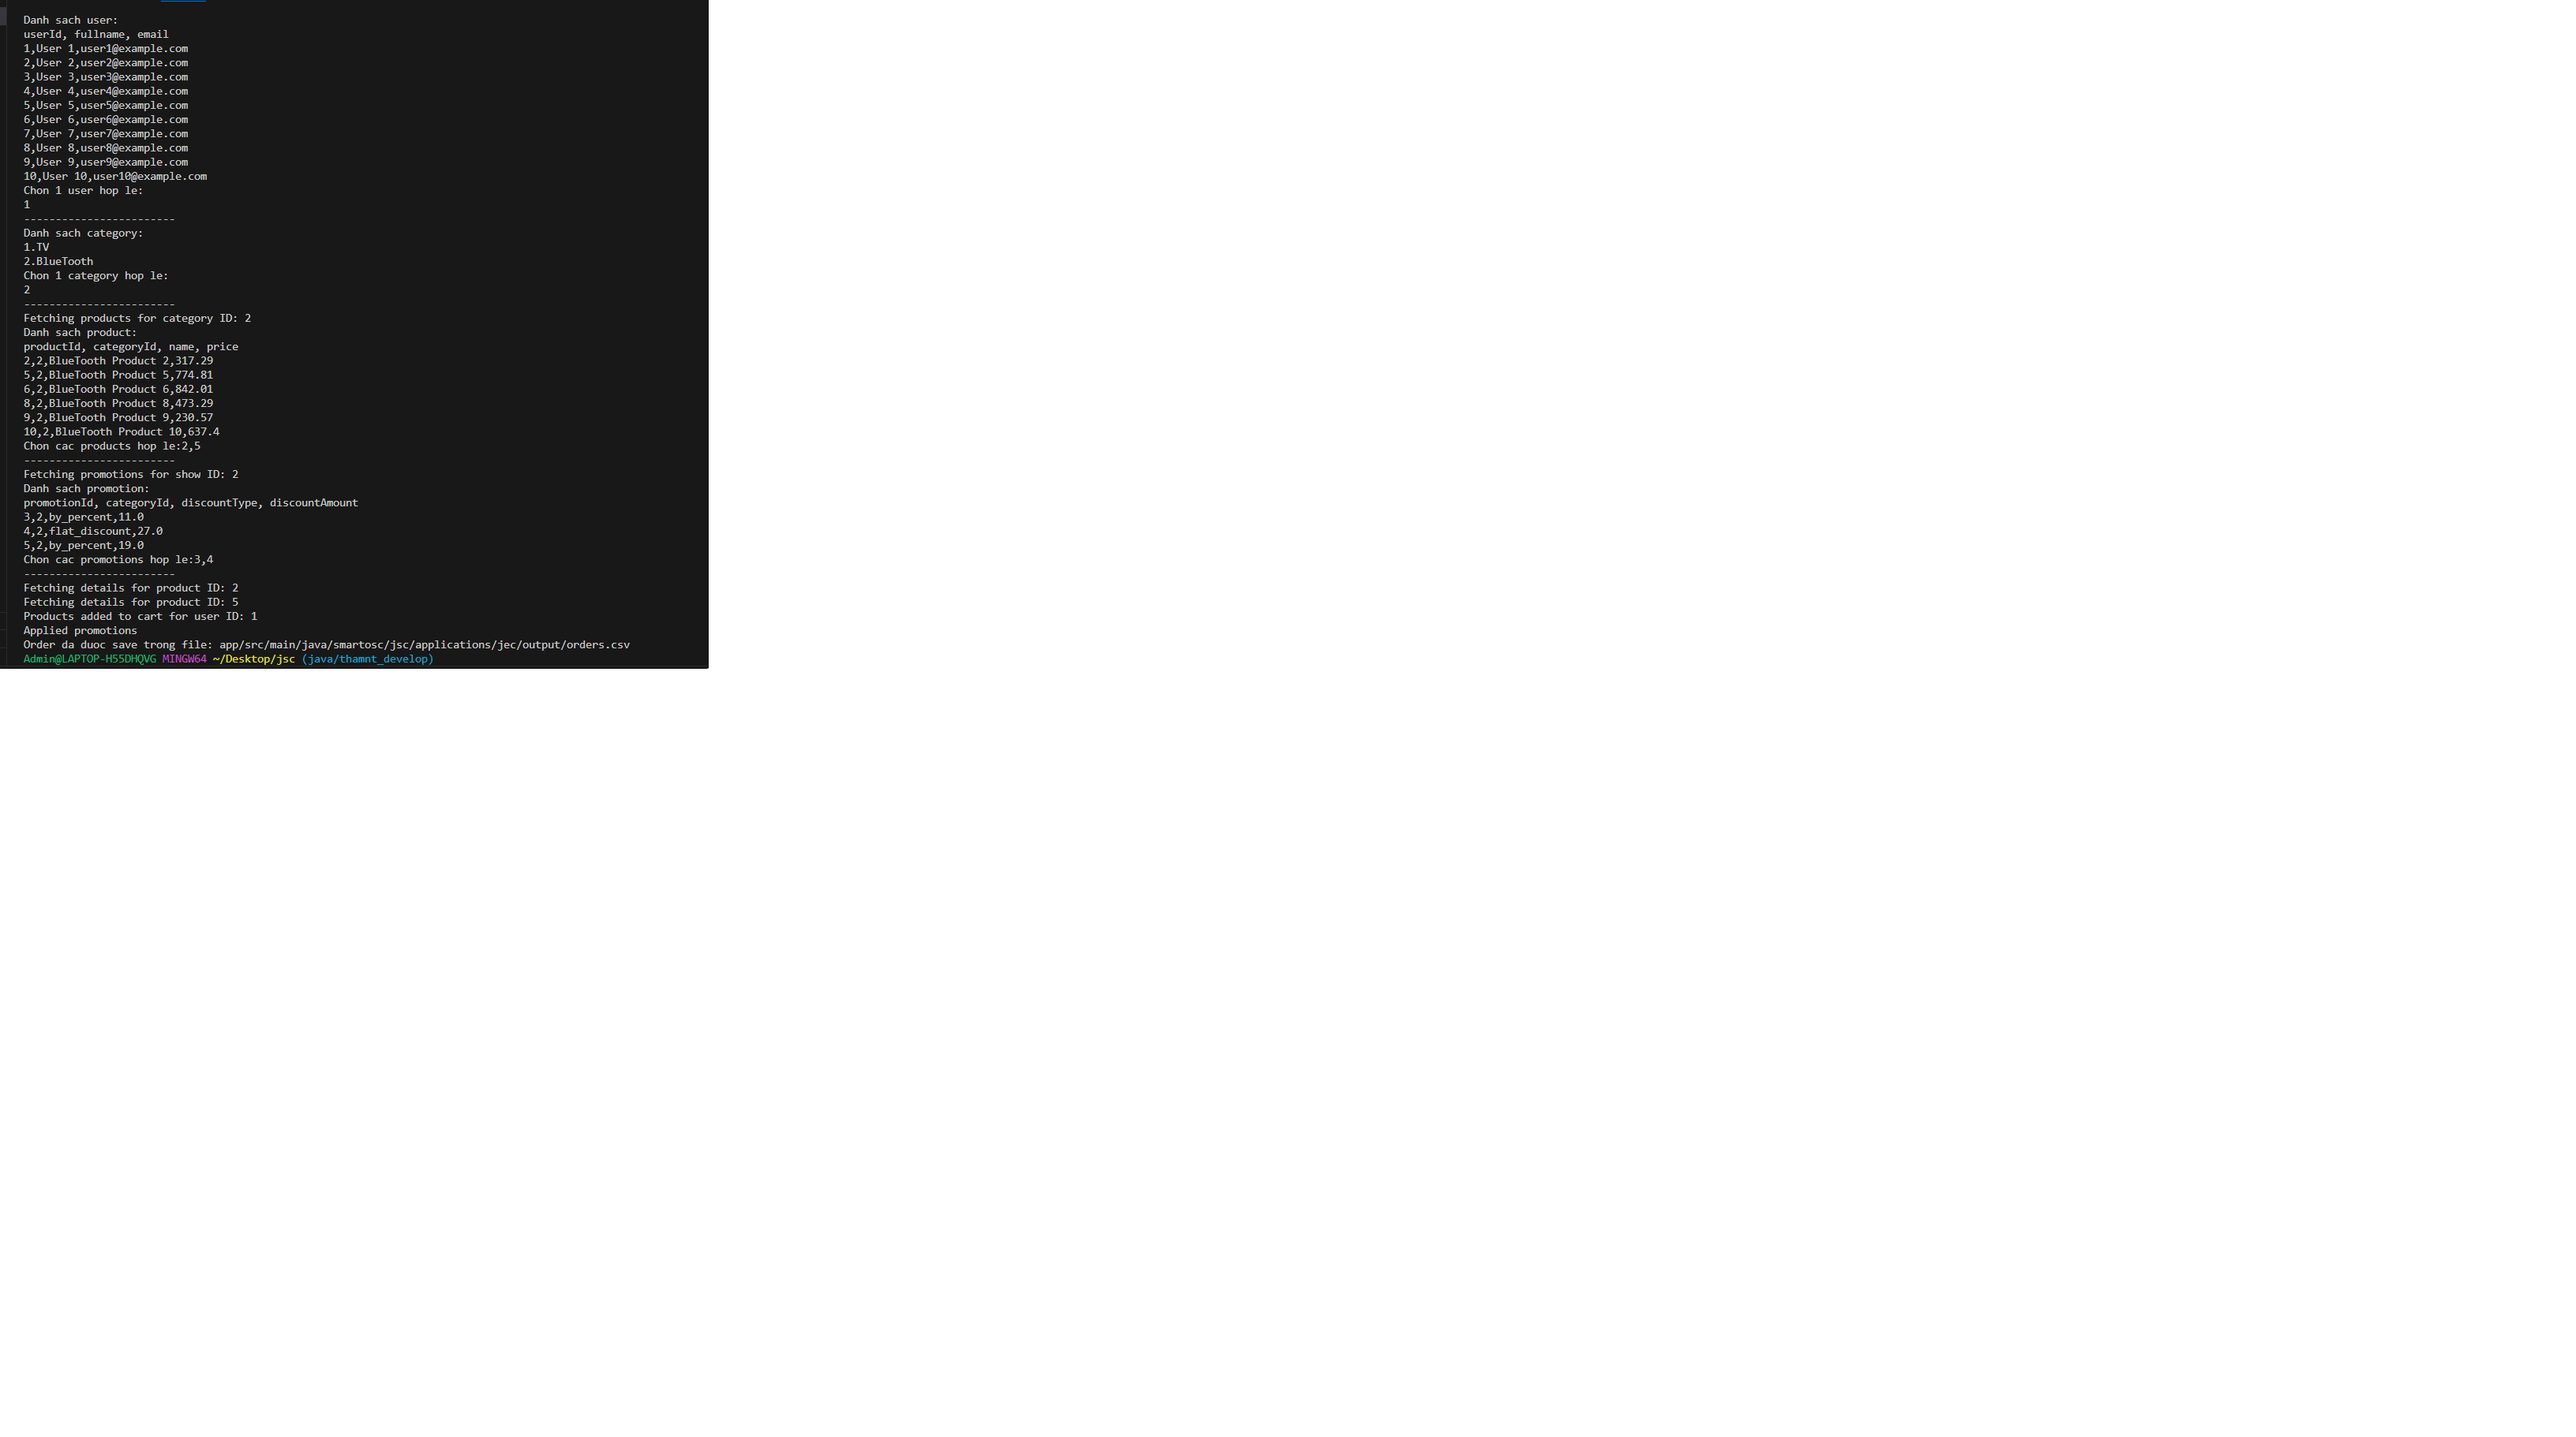
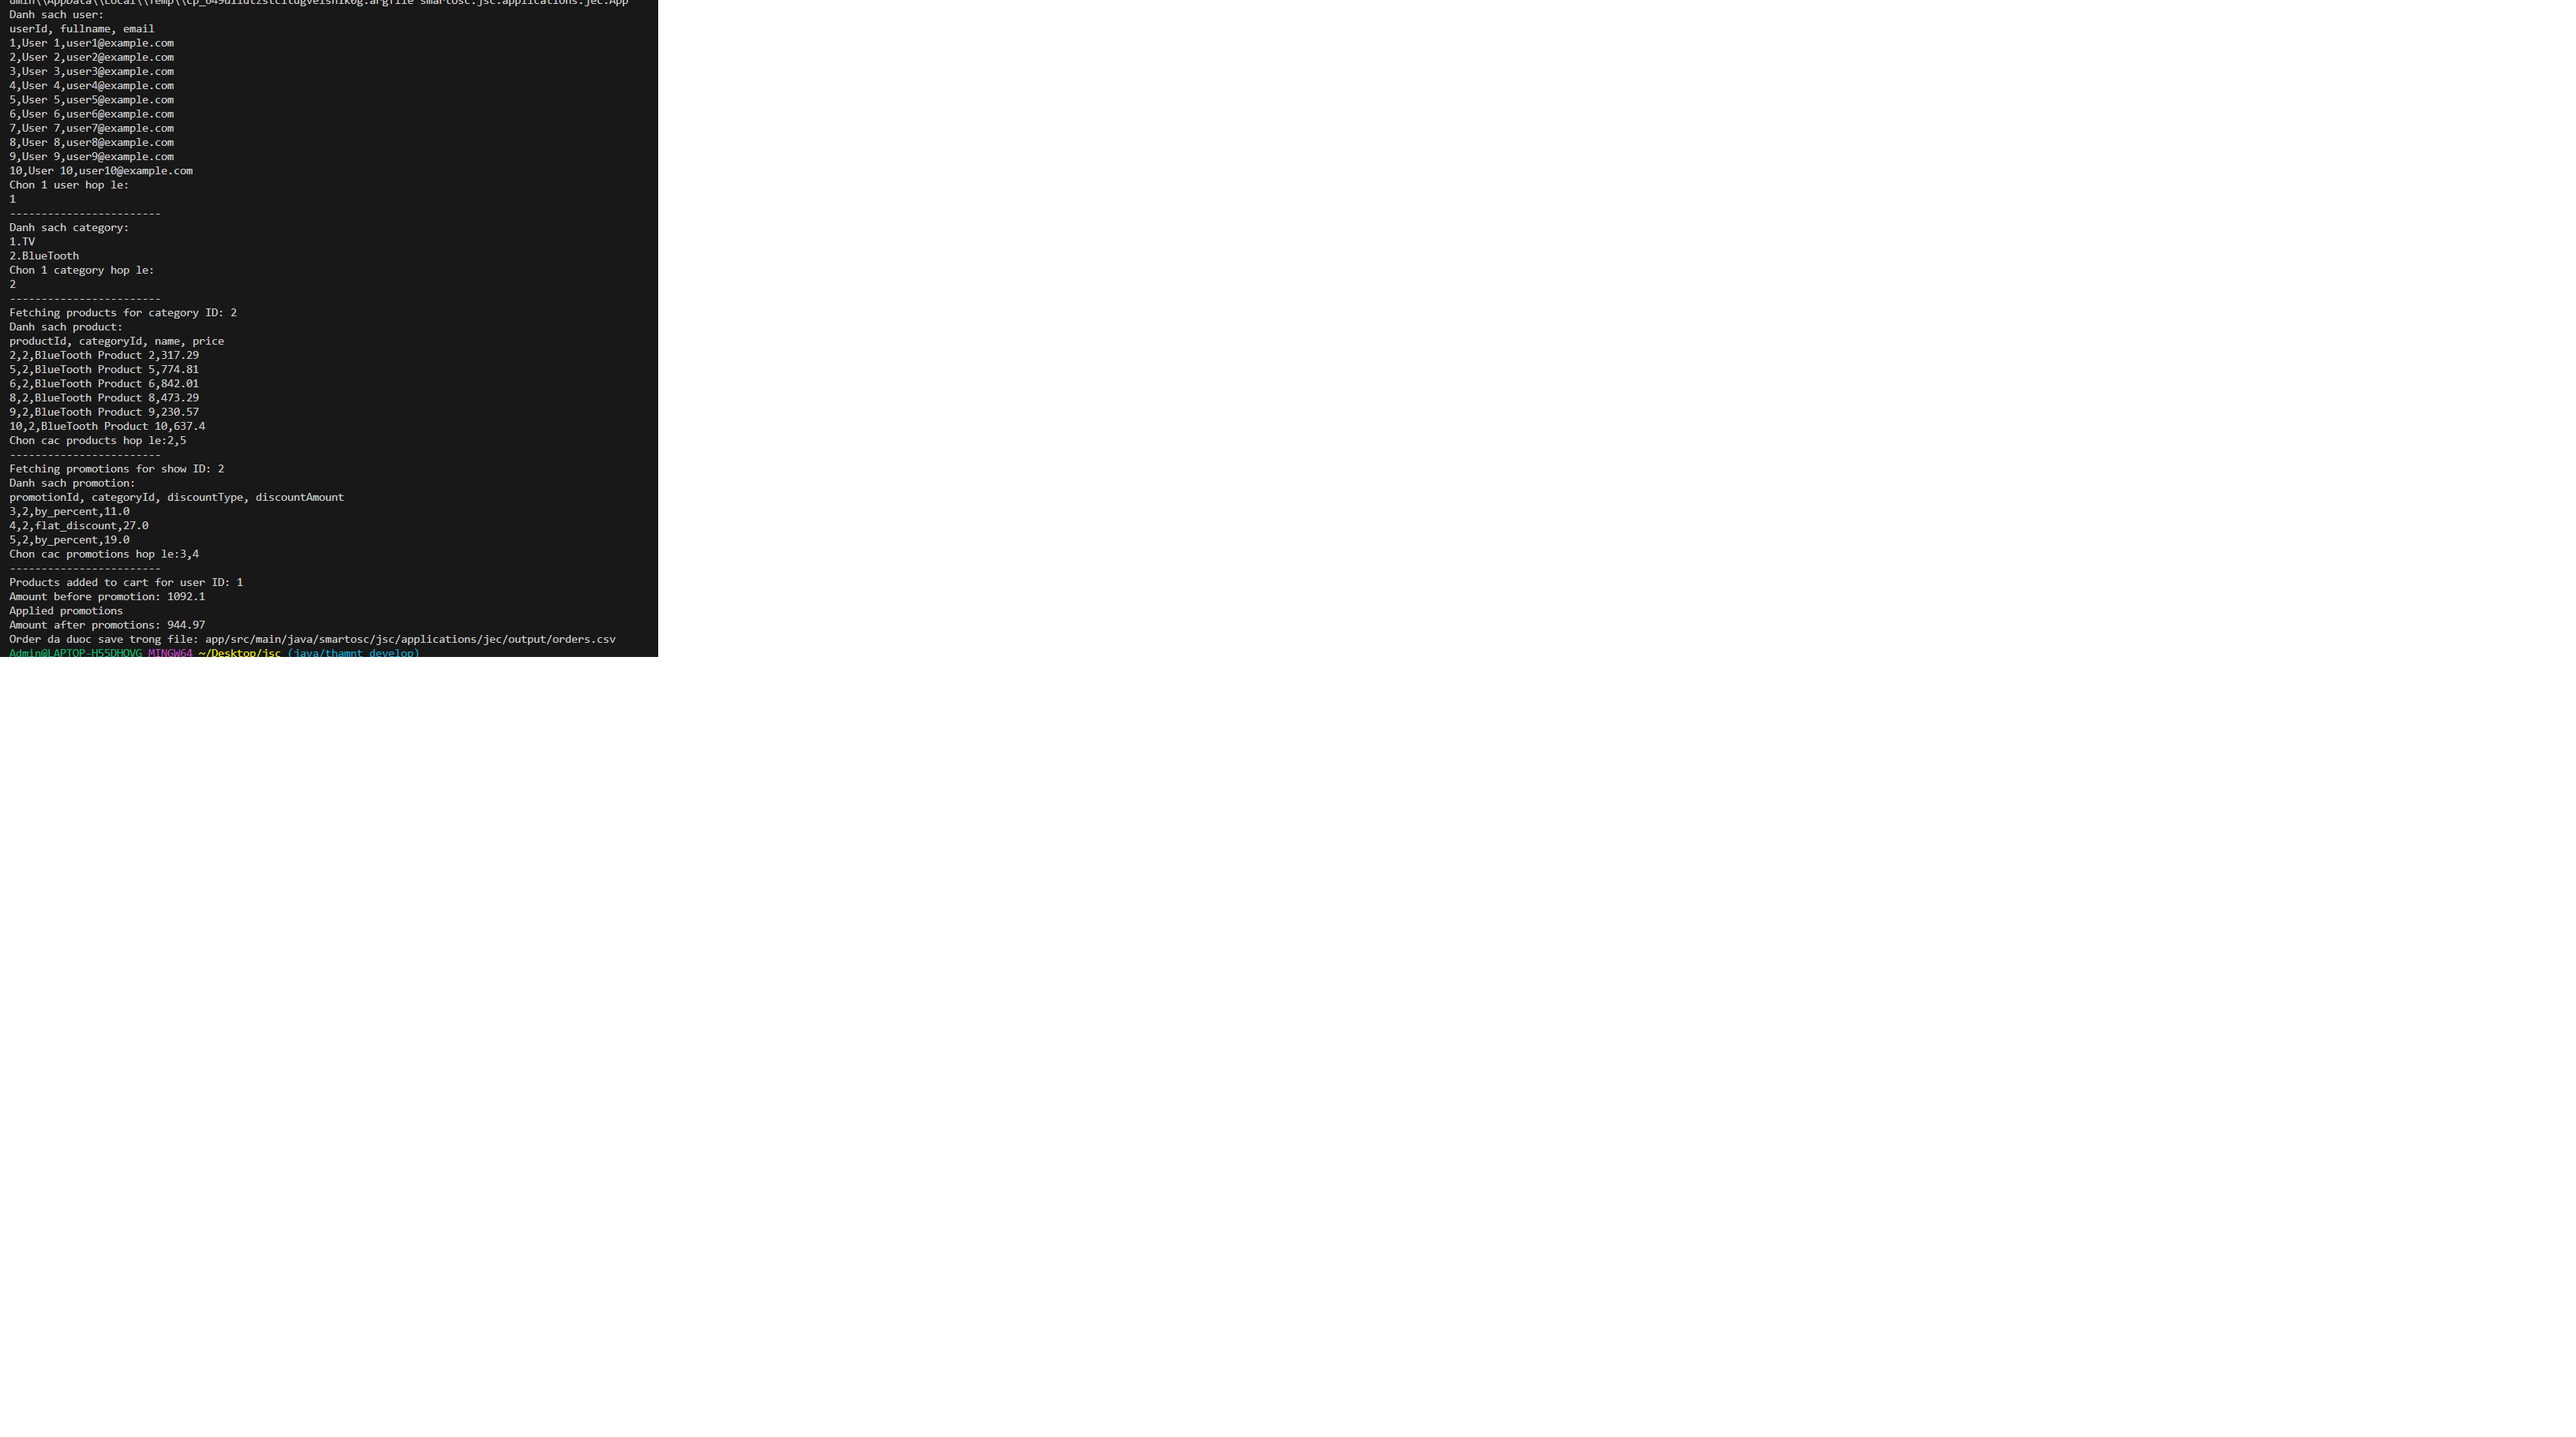
[Result] - Upload Result

Changed region(s): [[0.0, 0.0, 0.2812, 0.4918]]

diff --git a/app/src/main/java/smartosc/jsc/applications/jec/cart_mgt/services/CartService.java b/app/src/main/java/smartosc/jsc/applications/jec/cart_mgt/services/CartService.java
@@ -47,6 +47,7 @@ public class CartService {
         PromotionService promoService = new PromotionService();
         List<Integer> promoIdsInCart = new ArrayList<>();
         double amount = cart.getAmount();
+        System.out.println("Amount before promotion: " + amount);
 
         for (Integer promotionId : promotionIds) {
             Promotion promotion = promoService.getPromotionDetail(promotionId);
@@ -60,9 +61,11 @@ public class CartService {
                 amount -= amount * promotion.getDiscountAmount() / 100;
             }
         }
-        cart.setAmount(Math.round(amount * 100.0) / 100.0);
+        amount = Math.round(amount * 100.0) / 100.0;
+        cart.setAmount(amount);
         cart.setPromotionIds(promoIdsInCart);
         System.out.println("Applied promotions");
+        System.out.println("Amount after promotions: " + amount);
         return cart;
     }
 }

diff --git a/app/src/main/java/smartosc/jsc/applications/jec/product_mgt/services/ProductService.java b/app/src/main/java/smartosc/jsc/applications/jec/product_mgt/services/ProductService.java
@@ -39,7 +39,6 @@ public class ProductService {
         if (productId == null) {
             throw new IllegalArgumentException("Product ID cannot be null");
         }
-        System.out.println("Fetching details for product ID: " + productId);
         FileProcessingService fileService = new FileProcessingService();
 
         List<Map<String, String>> productList = fileService.readCsvWithHeaders(SOURCE);
